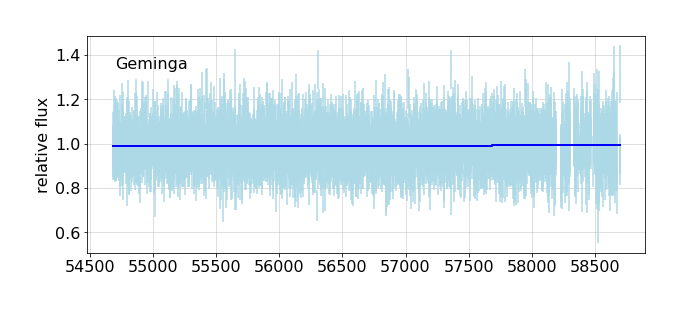
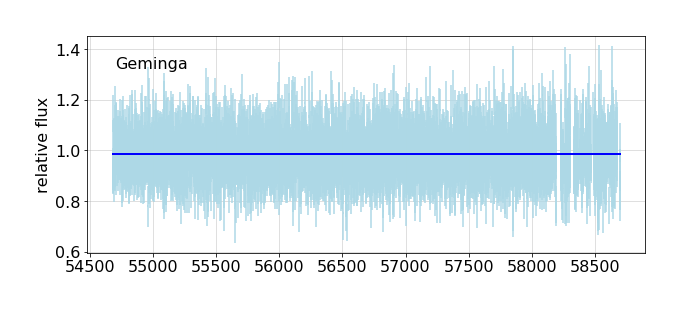
load-data bug fix

Changed region(s): [[0.0617, 0.5498, 0.9251, 0.8392], [0.0617, 0.1447, 0.9559, 0.4051], [0.0617, 0.4341, 0.9559, 0.5209]]

diff --git a/docs/analysis.html b/docs/analysis.html
@@ -126,7 +126,7 @@ Geminga's weight distribution and exposure. The run shown here finds one minor b
     <span class="n">flux</span> <span class="o">=</span> <span class="n">fits</span><span class="o">.</span><span class="n">apply</span><span class="p">(</span><span class="k">lambda</span> <span class="n">f</span><span class="p">:</span> <span class="n">f</span><span class="o">.</span><span class="n">flux</span><span class="p">)</span>
     <span class="n">errors</span> <span class="o">=</span> <span class="n">fits</span><span class="o">.</span><span class="n">apply</span><span class="p">(</span><span class="k">lambda</span> <span class="n">f</span><span class="p">:</span> <span class="p">(</span><span class="nb">round</span><span class="p">(</span><span class="n">f</span><span class="o">.</span><span class="n">errors</span><span class="p">[</span><span class="mi">0</span><span class="p">]</span><span class="o">-</span><span class="n">f</span><span class="o">.</span><span class="n">flux</span><span class="p">,</span><span class="mi">3</span><span class="p">),</span> <span class="nb">round</span><span class="p">(</span><span class="n">f</span><span class="o">.</span><span class="n">errors</span><span class="p">[</span><span class="mi">1</span><span class="p">]</span><span class="o">-</span><span class="n">f</span><span class="o">.</span><span class="n">flux</span> <span class="p">,</span><span class="mi">3</span><span class="p">)</span> <span class="p">)</span> <span class="p">)</span>
     <span class="n">sigma_dev</span> <span class="o">=</span> <span class="n">fits</span><span class="o">.</span><span class="n">apply</span><span class="p">(</span><span class="k">lambda</span> <span class="n">f</span><span class="p">:</span> <span class="nb">round</span><span class="p">(</span><span class="n">f</span><span class="o">.</span><span class="n">poiss</span><span class="o">.</span><span class="n">sigma_dev</span><span class="p">(</span><span class="n">expect</span><span class="p">),</span><span class="mi">1</span><span class="p">)</span> <span class="p">)</span>
-    <span class="n">df</span> <span class="o">=</span> <span class="n">lc</span><span class="p">[</span><span class="s1">&#39;t tw n e&#39;</span><span class="o">.</span><span class="n">split</span><span class="p">()];</span> <span class="n">df</span>
+    <span class="n">df</span> <span class="o">=</span> <span class="n">lc</span><span class="p">[</span><span class="s1">&#39;t tw n&#39;</span><span class="o">.</span><span class="n">split</span><span class="p">()];</span> <span class="n">df</span>
     <span class="n">df</span><span class="o">.</span><span class="n">loc</span><span class="p">[:,</span><span class="s1">&#39;flux&#39;</span><span class="p">]</span> <span class="o">=</span> <span class="n">flux</span><span class="o">.</span><span class="n">values</span><span class="o">.</span><span class="n">round</span><span class="p">(</span><span class="mi">4</span><span class="p">)</span>
     <span class="n">df</span><span class="o">.</span><span class="n">loc</span><span class="p">[:,</span> <span class="s1">&#39;errors&#39;</span><span class="p">]</span> <span class="o">=</span> <span class="n">errors</span><span class="o">.</span><span class="n">values</span>
     <span class="n">df</span><span class="o">.</span><span class="n">loc</span><span class="p">[:,</span> <span class="s1">&#39;sigma_dev&#39;</span><span class="p">]</span> <span class="o">=</span> <span class="n">sigma_dev</span><span class="o">.</span><span class="n">values</span>
@@ -156,7 +156,7 @@ Geminga's weight distribution and exposure. The run shown here finds one minor b
 <span class="sd">    #### {sim} Geminga data</span>
 <span class="sd">    </span>
 <span class="sd">    Get, or simulate, the daily binned data, or cells; perform Bayesian Blocks partition;</span>
-<span class="sd">    make fits to the blocks.</span>
+<span class="sd">    make fits to the blocks. &lt;br&gt;(Run at {date})</span>
 <span class="sd">    </span>
 <span class="sd">    {output}</span>
 <span class="sd">    </span>
@@ -224,22 +224,41 @@ Geminga's weight distribution and exposure. The run shown here finds one minor b
 
 <div class="output_area">
 
+<div class="output_subarea output_stream output_stderr output_text">
+<pre>/home/burnett/miniconda3/lib/python3.7/site-packages/pandas/core/indexing.py:845: SettingWithCopyWarning: 
+A value is trying to be set on a copy of a slice from a DataFrame.
+Try using .loc[row_indexer,col_indexer] = value instead
+
+See the caveats in the documentation: https://pandas.pydata.org/pandas-docs/stable/user_guide/indexing.html#returning-a-view-versus-a-copy
+  self.obj[key] = _infer_fill_value(value)
+/home/burnett/miniconda3/lib/python3.7/site-packages/pandas/core/indexing.py:966: SettingWithCopyWarning: 
+A value is trying to be set on a copy of a slice from a DataFrame.
+Try using .loc[row_indexer,col_indexer] = value instead
+
+See the caveats in the documentation: https://pandas.pydata.org/pandas-docs/stable/user_guide/indexing.html#returning-a-view-versus-a-copy
+  self.obj[item] = s
+</pre>
+</div>
+</div>
+
+<div class="output_area">
+
 
 <div class="output_markdown rendered_html output_subarea ">
 <h4 id="Geminga-data">Geminga data<a class="anchor-link" href="#Geminga-data"> </a></h4><p>Get, or simulate, the daily binned data, or cells; perform Bayesian Blocks partition;
-make fits to the blocks.</p>
-<p><details  class="nbdoc-description" >  <summary> Analysis output </summary>  <div style="margin-left: 5%"><pre>Light curve for Geminga: Restoring from cache with key "lightfcurve_Geminga"<br>Cell data for Geminga: Restoring from cache with key "cells_Geminga"<br>BB edges for...: Restoring from cache with key "bb-Geminga-test"<br>Partitioned 3873 cells into 17 blocks, using LikelihoodFitness <br>Loaded 17 / 17 cells with exposure &gt; 0.3 for fitting<br></pre></div> </details></p>
+make fits to the blocks. <br>(Run at 2020-12-22 13:30)</p>
+<p><details  class="nbdoc-description" >  <summary> Analysis output </summary>  <div style="margin-left: 5%"><pre>Light curve for Geminga: Saving to cache with key "lightfcurve_Geminga"<br>Cell data for Geminga: Saving to cache with key "cells_Geminga"<br>Photon data: Saving to cache with key "photons_Geminga"<br>Loading  132 months from Arrow dataset /home/burnett/data/dataset<br>....................................................................................................................................<br>   Selected 1,313,726 photons within 5 deg of  (195.13,4.27)<br>   Energies: 100.0-1000000 MeV<br> Dates:    2008-08-04 15:46 - 2019-08-03 01:17<br>   MJD  :    54682.7          - 58698.1         <br>Load weights from file /mnt/c/users/thbur/OneDrive/fermi/weight_files/Geminga_weights.pkl<br>  Found: PSR J0633+1746 at (195.14, 4.27)<br> Applyng weights: 240 / 1313726 photon pixels are outside weight region<br>  233109 weights set to NaN<br>binned exposure for source Geminga: Saving to cache with key "binned_exposure_Geminga"<br>exposure for Geminga: Saving to cache with key "exposure_Geminga"<br>Processing 12 S/C history (FT2) files<br>  applying cuts cos(theta) &lt; 0.4,  z &lt; 100<br>   file /home/burnett/work/lat-data/ft2/ft2_2008.fits: 362996 entries, 360944 in GTI<br>   file /home/burnett/work/lat-data/ft2/ft2_2009.fits: 874661 entries, 870446 in GTI<br>   file /home/burnett/work/lat-data/ft2/ft2_2010.fits: 889547 entries, 884697 in GTI<br>   file /home/burnett/work/lat-data/ft2/ft2_2011.fits: 882832 entries, 871672 in GTI<br>   file /home/burnett/work/lat-data/ft2/ft2_2012.fits: 881317 entries, 868109 in GTI<br>   file /home/burnett/work/lat-data/ft2/ft2_2013.fits: 885307 entries, 867342 in GTI<br>   file /home/burnett/work/lat-data/ft2/ft2_2014.fits: 894730 entries, 886570 in GTI<br>   file /home/burnett/work/lat-data/ft2/ft2_2015.fits: 890006 entries, 886086 in GTI<br>   file /home/burnett/work/lat-data/ft2/ft2_2016.fits: 890933 entries, 884823 in GTI<br>   file /home/burnett/work/lat-data/ft2/ft2_2017.fits: 888349 entries, 883761 in GTI<br>   file /home/burnett/work/lat-data/ft2/ft2_2018.fits: 842824 entries, 830723 in GTI<br>   file /home/burnett/work/lat-data/ft2/ft2_2019.fits: 737029 entries, 514657 in GTI<br>   Found 9,609,830 S/C entries:  2,695,715 remain after zenith and theta cuts<br>Calculate exposure using the energy domain 100.0-1000000.0 4 bins/decade<br>2695715 entries, MJD 54683 - 58698<br>Time bins: 4015 intervals of 1 days, in range (54683.0, 58698.0)<br>Loaded 3873 / 4015 cells with exposure &gt; 0.3 for light curve analysis<br>first cell: t                                                    54683.5<br>tw                                                         1<br>e                                                    1.26456<br>n                                                        330<br>w          [244, 214, 174, 5, 246, 150, 187, 65, 91, 215,...<br>S                                                    225.585<br>B                                                    114.707<br>loglike    light_curves.loglike.LogLike:  time 54683.500,...<br>Name: 0, dtype: object<br>Fitting likelihoods with poisson representation<br>Cell data for Geminga: Restoring from cache with key "cells_Geminga"<br>BB edges for...: Saving to cache with key "bb-Geminga-test"<br>Partitioned 3873 cells into 11 blocks, using LikelihoodFitness <br>Loaded 11 / 11 cells with exposure &gt; 0.3 for fitting<br></pre></div> </details></p>
 <p>This shows the fits to all cells, with the BB fit overlays</p>
 <div class="nbdoc_image">
 <a href="images/analysis_plots_fig_01.png"><figure style="margin-left: 5%">
    <img src="images/analysis_plots_fig_01.png" alt="Figure 1 at images/analysis_plots_fig_01.png" width=600> 
 </figure></a></div><p>Since this is a constant source, there should be no breaks, that is, only one partition.
 Here is a table of the partition fits:</p>
-<p><details open class="nbdoc-description" >  <summary> BB fit table </summary>  <div style="margin-left: 5%"><pre>          t      tw       n      e   flux           errors  sigma_dev<br>0   55027.0   688.0  207832  1.126  0.998  (-0.003, 0.003)        2.8<br>1   55378.0    14.0    3797  0.911  1.122  (-0.024, 0.025)        5.6<br>2   55560.5   351.0   96416  1.028  0.985  (-0.004, 0.004)       -1.2<br>3   55748.0    24.0    6887  0.960  1.123  (-0.018, 0.018)        7.5<br>4   56113.0   706.0  190965  1.011  0.991  (-0.003, 0.003)        0.5<br>5   56486.0    40.0   11267  0.989  1.070  (-0.014, 0.014)        6.1<br>6   56512.5    13.0    3402  1.046  0.901  (-0.021, 0.022)       -4.0<br>7   56673.5   309.0   84043  1.020  0.989  (-0.005, 0.005)       -0.2<br>8   56879.5   103.0   28168  0.996  1.027  (-0.008, 0.008)        4.5<br>9   56972.5    83.0   20961  0.957  0.966  (-0.009, 0.009)       -2.6<br>10  57017.5     7.0    2070  0.973  1.156  (-0.034, 0.034)        5.1<br>11  57109.0   176.0   45616  0.950  1.003  (-0.006, 0.006)        2.0<br>12  57197.5     1.0     149  0.852  0.535  (-0.066, 0.071)       -5.5<br>13  57723.0  1050.0  285243  1.013  0.993  (-0.003, 0.003)        1.0<br>14  58274.0    52.0    9282  0.622  1.071  (-0.015, 0.015)        5.5<br>15  58468.5   337.0   74075  0.814  0.991  (-0.005, 0.005)        0.3<br>16  58667.0    60.0   10261  0.586  1.078  (-0.015, 0.015)        6.2</pre></div> </details>
+<p><details open class="nbdoc-description" >  <summary> BB fit table </summary>  <div style="margin-left: 5%"><pre>          t      tw       n   flux           errors  sigma_dev<br>0   55027.5   689.0  208105  0.999  (-0.003, 0.003)        2.9<br>1   55378.5    13.0    3524  1.121  (-0.025, 0.026)        5.3<br>2   55559.5   349.0   95852  0.984  (-0.004, 0.004)       -1.3<br>3   55747.0    26.0    7451  1.117  (-0.017, 0.018)        7.5<br>4   56114.0   708.0  191491  0.991  (-0.003, 0.003)        0.4<br>5   56487.0    38.0   10741  1.078  (-0.014, 0.014)        6.5<br>6   56512.5    13.0    3402  0.901  (-0.021, 0.022)       -4.0<br>7   56858.0   678.0  180858  0.997  (-0.003, 0.003)        2.2<br>8   57197.5     1.0     149  0.535  (-0.066, 0.071)       -5.5<br>9   57913.5  1431.0  367469  0.994  (-0.002, 0.002)        1.8<br>10  58663.0    68.0   11392  1.071  (-0.014, 0.014)        6.1</pre></div> </details>
 The last column represents the compatibility of the flux measurement for each partition
 with the expected value 0.99 in equivalent sigma units.</p>
 <p>Expand the plot around short, &lt; 100 day partitions.
-There are 9 such.</p>
+There are 6 such.</p>
 <div class="nbdoc_image">
 <a href="images/analysis_plots_fig_02.png"><figure style="margin-left: 5%">
    <img src="images/analysis_plots_fig_02.png" alt="Figure 2 at images/analysis_plots_fig_02.png" width=600> 
@@ -274,18 +293,37 @@ There are 9 such.</p>
 
 <div class="output_area">
 
+<div class="output_subarea output_stream output_stderr output_text">
+<pre>/home/burnett/miniconda3/lib/python3.7/site-packages/pandas/core/indexing.py:845: SettingWithCopyWarning: 
+A value is trying to be set on a copy of a slice from a DataFrame.
+Try using .loc[row_indexer,col_indexer] = value instead
+
+See the caveats in the documentation: https://pandas.pydata.org/pandas-docs/stable/user_guide/indexing.html#returning-a-view-versus-a-copy
+  self.obj[key] = _infer_fill_value(value)
+/home/burnett/miniconda3/lib/python3.7/site-packages/pandas/core/indexing.py:966: SettingWithCopyWarning: 
+A value is trying to be set on a copy of a slice from a DataFrame.
+Try using .loc[row_indexer,col_indexer] = value instead
+
+See the caveats in the documentation: https://pandas.pydata.org/pandas-docs/stable/user_guide/indexing.html#returning-a-view-versus-a-copy
+  self.obj[item] = s
+</pre>
+</div>
+</div>
+
+<div class="output_area">
+
 
 <div class="output_markdown rendered_html output_subarea ">
 <h4 id="Simulated-Geminga-data">Simulated Geminga data<a class="anchor-link" href="#Simulated-Geminga-data"> </a></h4><p>Get, or simulate, the daily binned data, or cells; perform Bayesian Blocks partition;
-make fits to the blocks.</p>
-<p><details  class="nbdoc-description" >  <summary> Analysis output </summary>  <div style="margin-left: 5%"><pre>Light curve for Geminga: Restoring from cache with key "lightfcurve_Geminga"<br>Cell data for Geminga: Restoring from cache with key "cells_Geminga"<br>binned exposure for source Geminga: Restoring from cache with key "binned_exposure_Geminga"<br>Weight histogram for Geminga: Restoring from cache with key "weight_hist_Geminga"<br>Loaded 3873 / 4015 cells with exposure &gt; 0.3 for fitting<br>BB edges for...: Restoring from cache with key "analysis_plot_sim"<br>Partitioned 3873 cells into 2 blocks, using LikelihoodFitness <br>Loaded 2 / 2 cells with exposure &gt; 0.3 for fitting<br></pre></div> </details></p>
+make fits to the blocks. <br>(Run at 2020-12-22 13:37)</p>
+<p><details  class="nbdoc-description" >  <summary> Analysis output </summary>  <div style="margin-left: 5%"><pre>Light curve for Geminga: Restoring from cache with key "lightfcurve_Geminga"<br>Cell data for Geminga: Restoring from cache with key "cells_Geminga"<br>binned exposure for source Geminga: Restoring from cache with key "binned_exposure_Geminga"<br>Weight histogram for Geminga: Saving to cache with key "weight_hist_Geminga"<br>Photon data: Restoring from cache with key "photons_Geminga"<br><br>  Selected 1,313,726 photons within 5 deg of  (195.13,4.27)<br>   Energies: 100.0-1000000 MeV<br> Dates:    2008-08-04 15:46 - 2019-08-03 01:17<br>   MJD  :    54682.7          - 58698.1         <br>Load weights from file /mnt/c/users/thbur/OneDrive/fermi/weight_files/Geminga_weights.pkl<br>  Found: PSR J0633+1746 at (195.14, 4.27)<br> Applyng weights: 240 / 1313726 photon pixels are outside weight region<br>  233109 weights set to NaN<br>Loaded 3873 / 4015 cells with exposure &gt; 0.3 for fitting<br>BB edges for...: Saving to cache with key "analysis_plot_sim"<br>Partitioned 3873 cells into 1 blocks, using LikelihoodFitness <br>Loaded 1 / 1 cells with exposure &gt; 0.3 for fitting<br></pre></div> </details></p>
 <p>This shows the fits to all cells, with the BB fit overlays</p>
 <div class="nbdoc_image">
 <a href="images/analysis_sim_fig_01.png"><figure style="margin-left: 5%">
    <img src="images/analysis_sim_fig_01.png" alt="Figure 1 at images/analysis_sim_fig_01.png" width=600> 
 </figure></a></div><p>Since this is a constant source, there should be no breaks, that is, only one partition.
 Here is a table of the partition fits:</p>
-<p><details open class="nbdoc-description" >  <summary> BB fit table </summary>  <div style="margin-left: 5%"><pre>         t      tw       n      e   flux           errors  sigma_dev<br>0  56183.0  3000.0  871050  1.044  0.989  (-0.001, 0.001)       -0.8<br>1  58190.0  1014.0  245494  0.870  0.993  (-0.003, 0.003)        1.0</pre></div> </details>
+<p><details open class="nbdoc-description" >  <summary> BB fit table </summary>  <div style="margin-left: 5%"><pre>         t      tw        n   flux           errors  sigma_dev<br>0  56690.0  4014.0  1114526  0.988  (-0.001, 0.001)       -1.8</pre></div> </details>
 The last column represents the compatibility of the flux measurement for each partition
 with the expected value 0.99 in equivalent sigma units.</p>
 <p>Expand the plot around short, &lt; 100 day partitions.
@@ -304,8 +342,10 @@ None found.</p>
 <div class="cell border-box-sizing text_cell rendered"><div class="inner_cell">
 <div class="text_cell_render border-box-sizing rendered_html">
 <h2 id="TO-DO">TO DO<a class="anchor-link" href="#TO-DO"> </a></h2><ul>
-<li>Find out why, for the simulation, and apparently for data, there is a 1% descrepancy between the measured and expected ($\alpha=0$) flux. There are two ways that likelihoods for adjacent cells are combined: the Bayesian Blocks uses tables generated from the Poisson-like representations to each cell, currently with 50 entries, while the fits to the blocks it recognizes uses the actual weights. I have not carefully compared these.<br>
-It is apparently the poisson fit when applied to high-statisics data. Take a look at this, perhaps a Gaussian would be easier even.</li>
+<li>Find out why, for the simulation, and apparently for data, there is a 1% descrepancy between the measured and expected ($\alpha=0$) flux. There are two ways that likelihoods for adjacent cells are combined: the Bayesian Blocks uses tables generated from the Poisson-like representations to each cell, currently with 50 entries, while the fits, to the blocks it recognizes, use the actual weights. I have not carefully compared these.<ul>
+<li>It is apparently the poisson fit when applied to high-statisics data. Take a look at this, perhaps a Gaussian would be easier even.</li>
+</ul>
+</li>
 </ul>
 <ul>
 <li>Look at the 9 or so intervals detected for the data, of which 5 have measured flux increases around 10%,  more than 4$\sigma$. Possibilities are a problem with the exposure, and a change in the background. The latter can be examined by a 2-D fit with $\beta$ free. Another possibility, fixing $\alpha=0$ and fitting $\beta$ is not (yet) supported.</li>
@@ -334,7 +374,7 @@ It is apparently the poisson fit when applied to high-statisics data. Take a loo
 <div class="output_area">
 
 <div class="output_subarea output_stream output_stdout output_text">
-<pre>Tue Dec 22 07:36:51 PST 2020
+<pre>Tue Dec 22 13:41:52 PST 2020
 </pre>
 </div>
 </div>

diff --git a/utilities/ipynb_docgen.py b/utilities/ipynb_docgen.py
@@ -14,7 +14,7 @@ def userdoc():
 nbdev(userdoc,)
 
 """
-import sys, os, shutil, string, pprint
+import sys, os, shutil, string, pprint, datetime
 import nbdev
 
 __all__ = ['nbdoc', 'image', 'figure', 'monospace', 'capture_print', 'shell'] #,'show_doc']
@@ -396,7 +396,7 @@ def nbdoc(fun, *pars, name=None, **kwargs):
     If name is specified, use it instead of the function name to distinguish figure file names, say for separate
     executions with differing parameters.
 
-    The required docstring will be interpret as markdown.
+    The required docstring will be interpreted as markdown by IPython.
 
     args and kwargs will be passed to the user function -- a way to pass information from the notebook environment
     The function must end with "return locals()".
@@ -413,17 +413,24 @@ def nbdoc(fun, *pars, name=None, **kwargs):
     doc = inspect.cleandoc(rawdoc)
     name = name or fun.__name__
 
+    # predefine convenient symbols
+    vars = dict(date =str(datetime.datetime.now())[:16],
+            )
+
     # run it and collect its local symbol table
     try:
-        vars = fun(*pars, **kwargs)
+        user_vars = fun(*pars, **kwargs)
     except Exception as e:
         print(f'Function {fun.__name__} failed: {e}', file=sys.stderr)
         raise 
         #return
 
-    if vars is None or  type(vars)!=dict:
+    if user_vars is None or  type(user_vars)!=dict:
         print( 'The function {fun.__name__} must end with "return locals()"', file=sys.stderr)
         return
+
+    # add convenient symbols
+    vars.update(user_vars)
 
     # check location. Expect the
     if os.path.isdir('docs'):

diff --git a/light_curves/photon_data.py b/light_curves/photon_data.py
@@ -13,7 +13,7 @@ from .config import *
 from .load_gti import get_gti
 
 # Cell
-def _load_photon_data(table, tstart,
+def _load_photon_data(config, table, tstart,
                       conepix, gti, center, band_limits, radius,
                       nest=True):
     """For a given month table, select photons in cone, add tstart to times,
@@ -87,7 +87,7 @@ def _get_photons(config, source, nest=True):
     for month, tstart in tstart_dict.items(): #months:
         table= pq.read_table(dataset, filters=[f'month == {month}'.split()])
 
-        d = _load_photon_data(table, tstart,
+        d = _load_photon_data(config, table, tstart,
                               conepix, gti, center, band_limits, radius,
                               nest)
         if d is not None:
